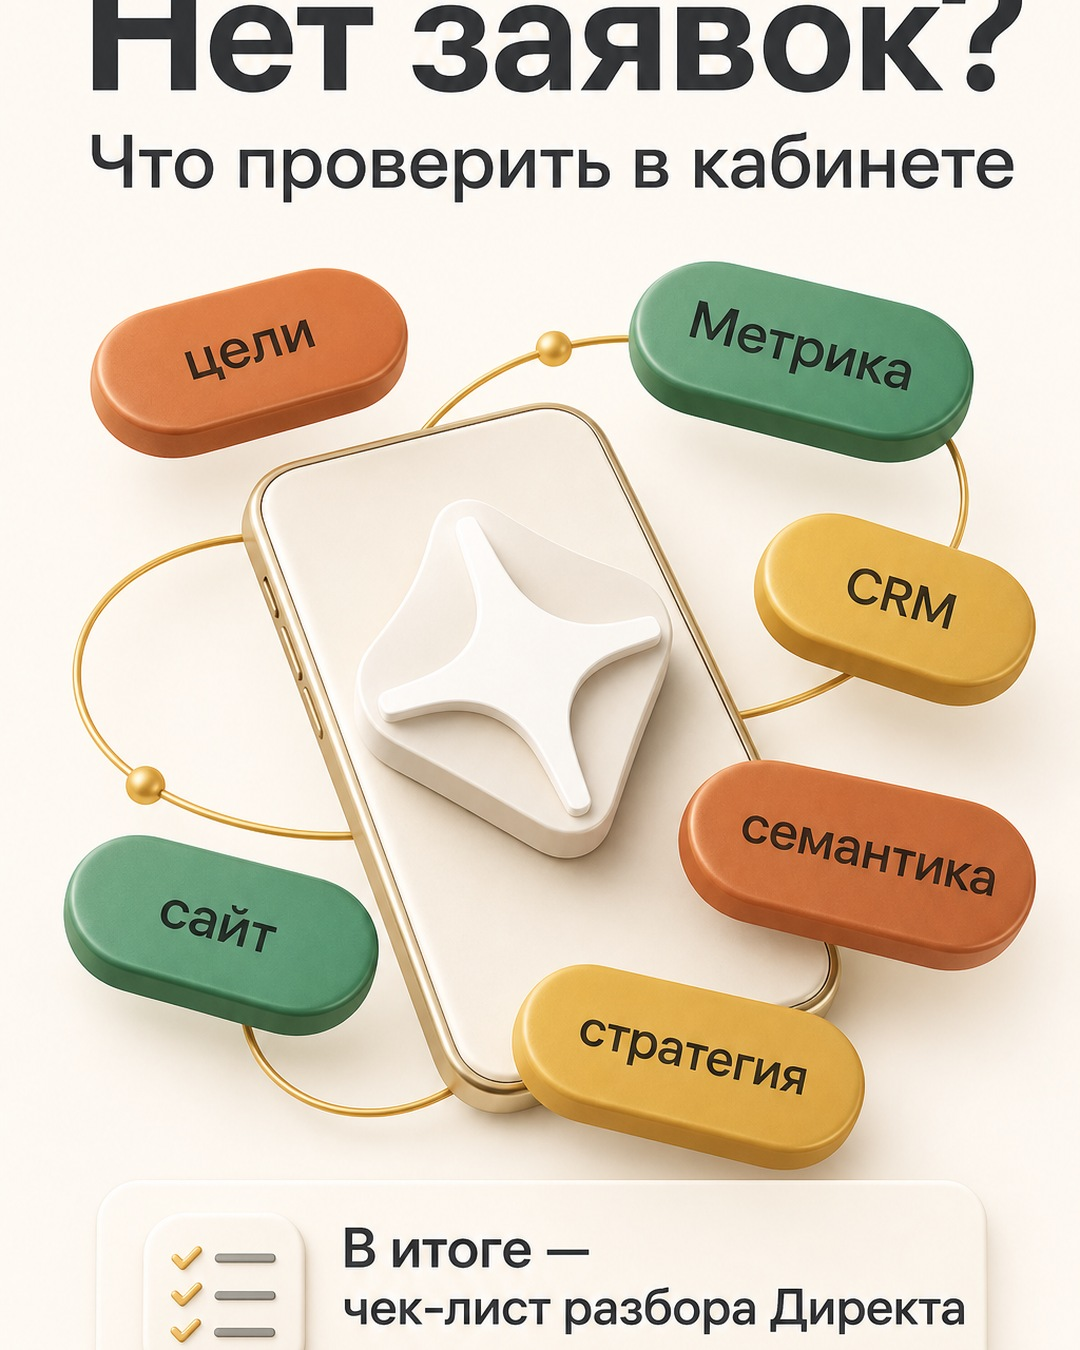
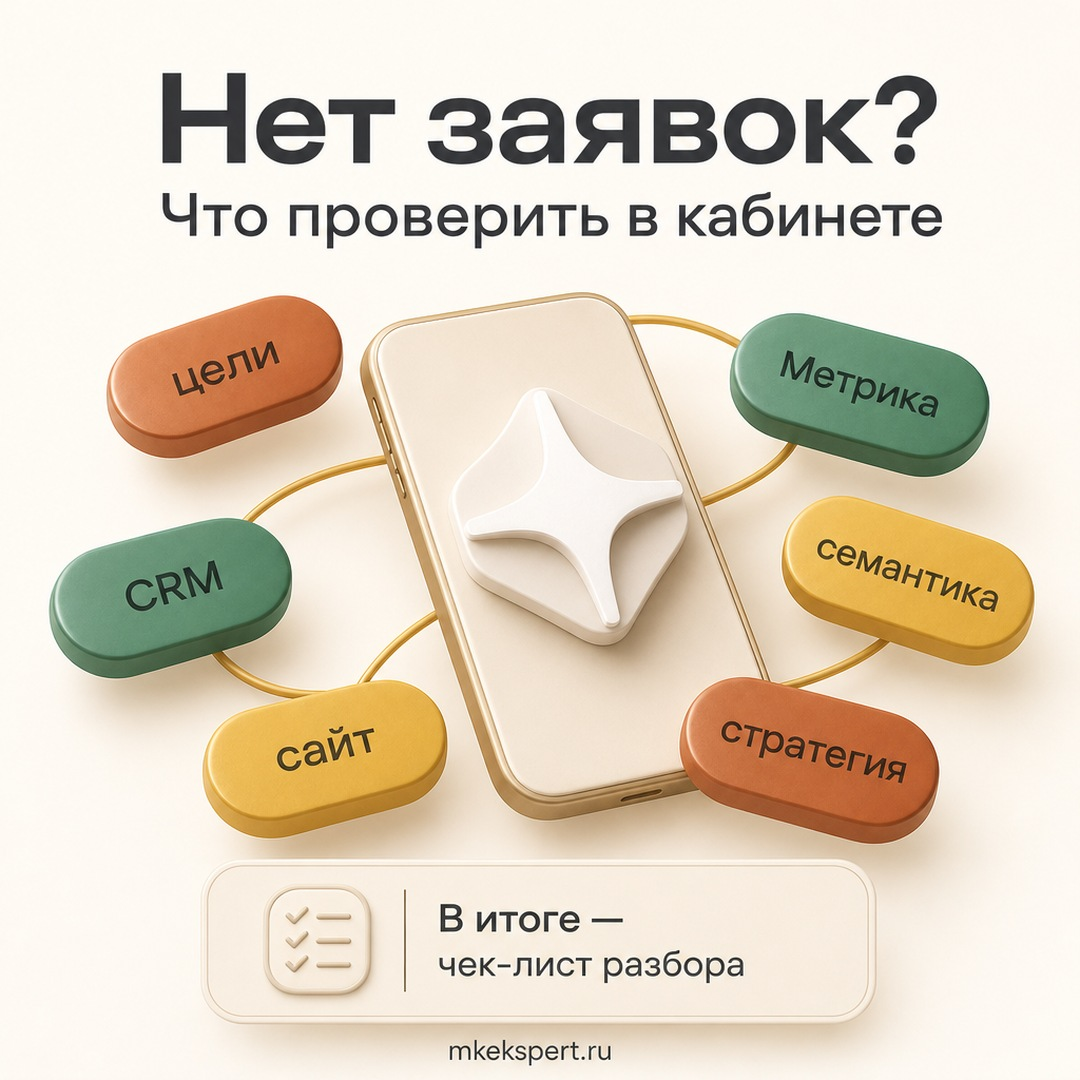
covers: VK posts use square 1080x1080

diff --git a/автоматизация-контента/automation/generate_cover.py b/автоматизация-контента/automation/generate_cover.py
@@ -60,7 +60,7 @@ MW_GOLD       = ACCENT_GOLD
 MW_GRAPHITE   = TEXT_GRAPHITE
 
 LANDSCAPE   = (1200, 630)
-VK_PORTRAIT = (1080, 1350)  # 4:5
+VK_PORTRAIT = (1080, 1080)  # 1:1 — квадрат для постов VK
 SQUARE      = (1080, 1080)
 
 
@@ -166,7 +166,7 @@ def openrouter_prompt(headline: str, subline: str, *, vk: bool = False) -> str:
         "с безопасными полями не меньше 6% от краёв. Ничего не обрезать."
         if not vk
         else
-        "Формат строго 4:5, вертикальный баннер. "
+        "Формат строго 1:1, квадратный баннер для VK. "
         "Все элементы и весь текст полностью внутри кадра, "
         "с безопасными полями не меньше 6% от краёв. Ничего не обрезать."
     )
@@ -211,9 +211,9 @@ def fetch_openrouter_background(
     if is_openai_img:
         # OpenAI image через OpenRouter: 1:1 / 3:2 / 2:3 / auto (16:9 не принимает)
         # auto + промпт "строго 16:9" даёт более широкий кадр без жёсткой обрезки
-        aspect = "2:3" if vk else "auto"
+        aspect = "1:1" if vk else "auto"
     else:
-        aspect = "4:5" if vk else "16:9"
+        aspect = "1:1" if vk else "16:9"
 
     payload: dict = {"model": model, "prompt": prompt, "aspect_ratio": aspect}
 

diff --git a/автоматизация-контента/docs/covers-cloud-agent.md b/автоматизация-контента/docs/covers-cloud-agent.md
@@ -6,7 +6,9 @@
 
 1. Агент вызывает `GenerateImage` с промптом + `aspect_ratio=16:9` (+ опционально reference).
 2. Файл появляется в `/opt/cursor/artifacts/assets/`.
-3. Копируем/ресайзим в `assets/covers/{slug}.jpg` (1200×630).
+3. Копируем/ресайзим:
+   - Дзен/TG: `assets/covers/{slug}.jpg` → **1200×630**
+   - VK: `assets/covers/{slug}-vk.jpg` → **1080×1080** (квадрат)
 4. Деплой: `python3 -c "from automation.dzen_rss import deploy_gh_pages; deploy_gh_pages()"`.
 
 **OpenRouter не нужен** для этого пути. Кредиты OpenRouter не тратятся.
